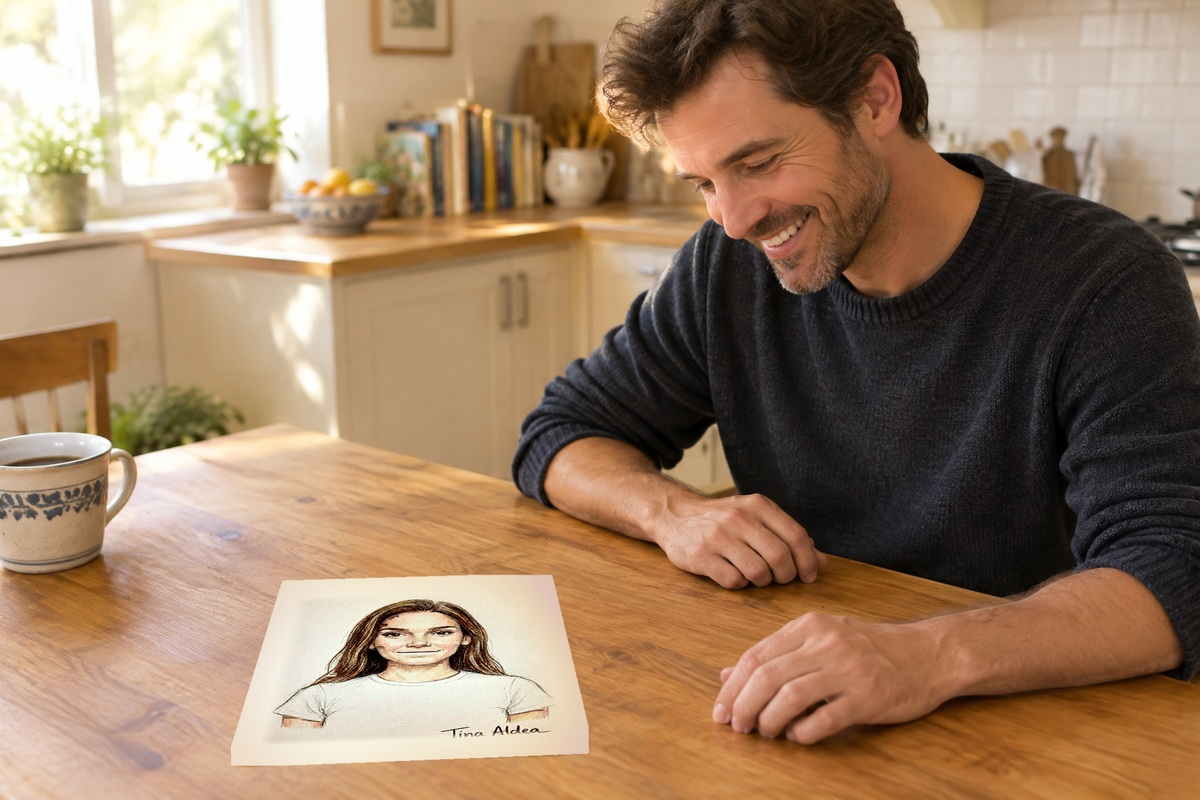
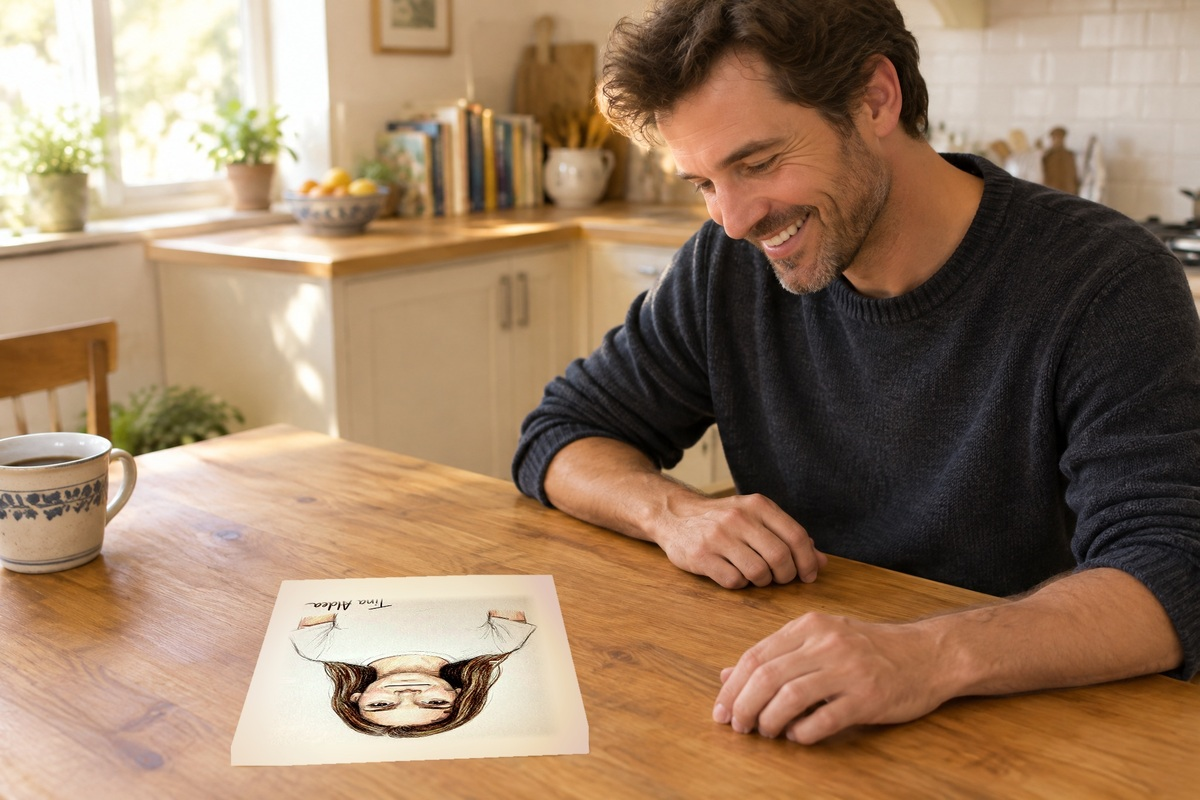
ads: orient the page to the person reading it, not the viewer
Rotate the composited sketch 180 degrees so the page lies the way it
would for the person at the table. Previously it was turned to face the
camera, which is the usual advertising cheat but is not what a page on a
table in front of someone looks like.

Claude-Session: https://claude.ai/code/session_01Ky2EpeQAbUG2Kw3ug7yjtW

Changed region(s): [[0.2158, 0.75, 0.4625, 0.9375]]

diff --git a/research/clickbank-product-mastery/CAMPAIGN.md b/research/clickbank-product-mastery/CAMPAIGN.md
@@ -321,3 +321,14 @@ Each of these was broken on its own in a separate round. State all three.
 are fitted as x = a*y + b and top/bottom as y = c*x + d; fitting all four the
 same way makes the near-horizontal edges blow up. Always overlay the fitted quad
 on the plate and look at it before compositing.
+
+**Page orientation on the table is the person's, not the viewer's.** The sheet is
+rotated so its top points away from the person reading it, which is how a page
+actually lies when someone reads it. Pass the quad to `composite_sketch.py` as
+`BR;BL;TL;TR` to turn the texture through 180 degrees.
+
+Note the geometry this forces: if the subject faces the camera, the camera is
+opposite them, so a page oriented to them reads upside down to the viewer. There
+is no framing where a flat page on a table faces the subject AND reads upright to
+a camera in front of them. To have both, the page has to be propped or tilted up
+towards the subject with the camera raised and off to their side.
